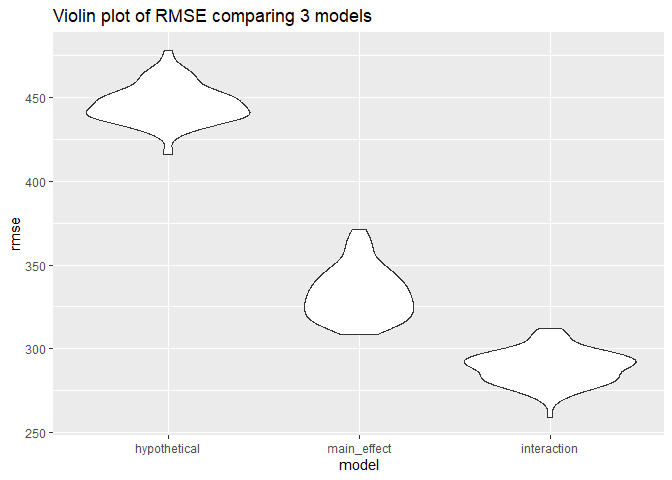
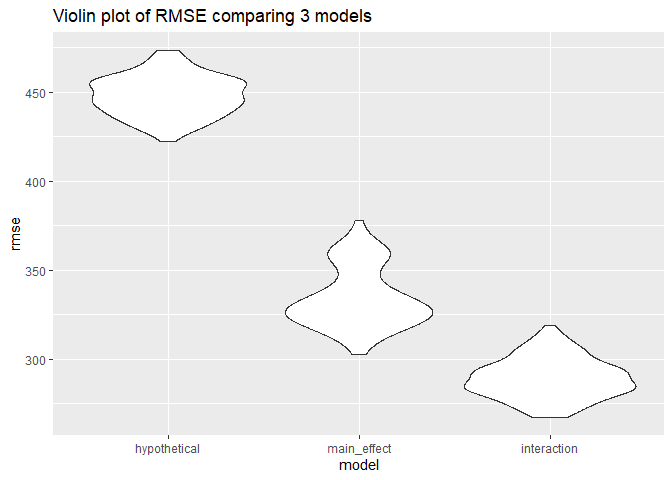
Copied and pasted Problem 1 solution. Added description for Problem 2.

diff --git a/HW6.md b/HW6.md
@@ -24,6 +24,79 @@ Chee Kay Cheong
     ## 
     ## This is mgcv 1.8-40. For overview type 'help("mgcv-package")'.
 
+## Problem 1
+
+To obtain a distribution for $\hat{r}^2$, we’ll follow basically the
+same procedure we used for regression coefficients: draw bootstrap
+samples; then a model to each; extract the value I’m concerned with; and
+summarize. Here, we’ll use `modelr::bootstrap` to draw the samples and
+`broom::glance` to produce `r.squared` values.
+
+``` r
+weather_df = 
+  rnoaa::meteo_pull_monitors(
+    c("USW00094728"),
+    var = c("PRCP", "TMIN", "TMAX"), 
+    date_min = "2017-01-01",
+    date_max = "2017-12-31") %>%
+  mutate(
+    name = recode(id, USW00094728 = "CentralPark_NY"),
+    tmin = tmin / 10,
+    tmax = tmax / 10) %>%
+  select(name, id, everything())
+```
+
+``` r
+weather_df %>% 
+  modelr::bootstrap(n = 1000) %>% 
+  mutate(
+    models = map(strap, ~lm(tmax ~ tmin, data = .x) ),
+    results = map(models, broom::glance)) %>% 
+  select(-strap, -models) %>% 
+  unnest(results) %>% 
+  ggplot(aes(x = r.squared)) + geom_density()
+```
+
+![](HW6_files/figure-gfm/unnamed-chunk-1-1.png)<!-- -->
+
+In this example, the $\hat{r}^2$ value is high, and the upper bound at 1
+may be a cause for the generally skewed shape of the distribution. If we
+wanted to construct a confidence interval for $R^2$, we could take the
+2.5% and 97.5% quantiles of the estimates across bootstrap samples.
+However, because the shape isn’t symmetric, using the mean +/- 1.96
+times the standard error probably wouldn’t work well.
+
+We can produce a distribution for $\log(\beta_0 * \beta1)$ using a
+similar approach, with a bit more wrangling before we make our plot.
+
+``` r
+weather_df %>% 
+  modelr::bootstrap(n = 1000) %>% 
+  mutate(
+    models = map(strap, ~lm(tmax ~ tmin, data = .x) ),
+    results = map(models, broom::tidy)) %>% 
+  select(-strap, -models) %>% 
+  unnest(results) %>% 
+  select(id = `.id`, term, estimate) %>% 
+  pivot_wider(
+    names_from = term, 
+    values_from = estimate) %>% 
+  rename(beta0 = `(Intercept)`, beta1 = tmin) %>% 
+  mutate(log_b0b1 = log(beta0 * beta1)) %>% 
+  ggplot(aes(x = log_b0b1)) + geom_density()
+```
+
+![](HW6_files/figure-gfm/unnamed-chunk-2-1.png)<!-- -->
+
+As with $r^2$, this distribution is somewhat skewed and has some
+outliers.
+
+The point of this is not to say you should always use the bootstrap –
+it’s possible to establish “large sample” distributions for strange
+parameters / values / summaries in a lot of cases, and those are great
+to have. But it is helpful to know that there’s a way to do inference
+even in tough cases.
+
 ## Problem 2
 
 Load and clean the `homicide` dataset:
@@ -33,19 +106,30 @@ homicide =
   read_csv("./Data/homicide_data.csv") %>% 
   janitor::clean_names() %>% 
   mutate(
+  # I didn't drop any missing values, but I converted all "Unknown" in these three columns to real 'NA' that is recognized by R.
     across(c(victim_age, victim_sex, victim_race), na_if, "Unknown")) %>% 
   mutate(
     victim_age = as.numeric(victim_age),
     reported_date = as.character(reported_date),
     reported_date = as.Date(reported_date, format = "%Y%m%d"),
     state = str_replace(state, "w", "W"),
-    case_solved = ifelse(disposition == "Closed by arrest", 1, 0)) %>%
+    case_solved = ifelse(disposition == "Closed by arrest", 1, 0),
+    case_solved = as.factor(case_solved)) %>%
   unite(col = 'city_state', c('city', 'state'), sep = ', ') %>% 
   subset(!city_state %in% c("Dallas, TX", "Phoenix, AZ", "Kansas City, MO", "Tulsa, AL")) %>% 
   subset(victim_race %in% c("White", "Black"))
 ```
 
+I created a new variable named `case_solved` in which if any cases were
+“*Open/No arrest*” or “*closed without arrest*” it will be coded as `0`,
+while if any cases were “*Closed by arrest*” it will be coded as `1`.
+
+`1` means resolved, whereas `0` means unresolved.
+
 ##### Baltimore, MD
+
+I would like to create a smaller dataset named `baltimore` which
+contains only information about the city of Baltimore, MD.
 
 ``` r
 baltimore = 
@@ -53,9 +137,14 @@ baltimore =
   filter(
     city_state == "Baltimore, MD") %>%
   mutate(
+  # I releveled the victim's race, so that "White" becomes the reference group.
     victim_race = fct_relevel(victim_race, "White")) %>% 
   select(case_solved, victim_age, victim_sex, victim_race)
 ```
+
+Then, I would fit a logistic regression to obtain the adjusted odds
+ratio for solving homicides comparing male victims to female victims,
+keeping all other variables fixed.
 
 ``` r
 logreg_balti = 
@@ -68,18 +157,26 @@ logreg_balti =
     CI_upper = exp(estimate + 1.96 * std.error))
 
 logreg_balti %>% 
-  select(-std.error, -statistic) %>% 
+  select(term, OR, CI_lower, CI_upper) %>% 
+  filter(term == "victim_sexMale") %>% 
   knitr::kable(digits = 2)
 ```
 
-| term             | estimate | p.value |   OR | CI_lower | CI_upper |
-|:-----------------|---------:|--------:|-----:|---------:|---------:|
-| (Intercept)      |     1.15 |    0.00 | 3.16 |     1.99 |     5.03 |
-| victim_age       |    -0.01 |    0.04 | 0.99 |     0.99 |     1.00 |
-| victim_sexMale   |    -0.85 |    0.00 | 0.43 |     0.32 |     0.56 |
-| victim_raceBlack |    -0.84 |    0.00 | 0.43 |     0.31 |     0.61 |
+| term           |   OR | CI_lower | CI_upper |
+|:---------------|-----:|---------:|---------:|
+| victim_sexMale | 0.43 |     0.32 |     0.56 |
+
+The adjusted odds ratio for solving homicides comparing male victims to
+female victims is 0.43, and the adjusted 95% confidence interval is 0.32
+to 0.56. In Baltimore, MD, the odds of solving homicides among males is
+57% lower than the odds of solving homicides among females, and we are
+95% confident that the true odds ratio lies between 0.32 and 0.56.
 
 ##### All cities
+
+Next, I fitted a logistic regression model for each of the cities in the
+`homicide` dataset and extract the adjusted odds ratio and 95% CI for
+solving homicides comparing male victims to female victims.
 
 ``` r
 all_cities = 
@@ -97,7 +194,64 @@ all_cities =
     OR = exp(estimate),
     CI_lower = exp(estimate - 1.96 * std.error),
     CI_upper = exp(estimate + 1.96 * std.error))
+
+all_cities %>% 
+  select(city_state, term, OR, CI_lower, CI_upper) %>% 
+  knitr::kable(digits = 2)
 ```
+
+| city_state         | term           |   OR | CI_lower | CI_upper |
+|:-------------------|:---------------|-----:|---------:|---------:|
+| Albuquerque, NM    | victim_sexMale | 1.77 |     0.83 |     3.76 |
+| Atlanta, GA        | victim_sexMale | 1.00 |     0.68 |     1.46 |
+| Baltimore, MD      | victim_sexMale | 0.43 |     0.32 |     0.56 |
+| Baton Rouge, LA    | victim_sexMale | 0.38 |     0.21 |     0.70 |
+| Birmingham, AL     | victim_sexMale | 0.87 |     0.57 |     1.32 |
+| Boston, MA         | victim_sexMale | 0.67 |     0.35 |     1.26 |
+| Buffalo, NY        | victim_sexMale | 0.52 |     0.29 |     0.94 |
+| Charlotte, NC      | victim_sexMale | 0.88 |     0.56 |     1.40 |
+| Chicago, IL        | victim_sexMale | 0.41 |     0.34 |     0.50 |
+| Cincinnati, OH     | victim_sexMale | 0.40 |     0.24 |     0.68 |
+| Columbus, OH       | victim_sexMale | 0.53 |     0.38 |     0.75 |
+| Denver, CO         | victim_sexMale | 0.48 |     0.24 |     0.97 |
+| Detroit, MI        | victim_sexMale | 0.58 |     0.46 |     0.73 |
+| Durham, NC         | victim_sexMale | 0.81 |     0.39 |     1.68 |
+| Fort Worth, TX     | victim_sexMale | 0.67 |     0.40 |     1.13 |
+| Fresno, CA         | victim_sexMale | 1.34 |     0.58 |     3.07 |
+| Houston, TX        | victim_sexMale | 0.71 |     0.56 |     0.91 |
+| Indianapolis, IN   | victim_sexMale | 0.92 |     0.68 |     1.24 |
+| Jacksonville, FL   | victim_sexMale | 0.72 |     0.54 |     0.97 |
+| Las Vegas, NV      | victim_sexMale | 0.84 |     0.61 |     1.15 |
+| Long Beach, CA     | victim_sexMale | 0.41 |     0.16 |     1.08 |
+| Los Angeles, CA    | victim_sexMale | 0.66 |     0.46 |     0.96 |
+| Louisville, KY     | victim_sexMale | 0.49 |     0.30 |     0.79 |
+| Memphis, TN        | victim_sexMale | 0.72 |     0.53 |     0.99 |
+| Miami, FL          | victim_sexMale | 0.52 |     0.30 |     0.87 |
+| Milwaukee, WI      | victim_sexMale | 0.73 |     0.50 |     1.06 |
+| Minneapolis, MN    | victim_sexMale | 0.95 |     0.48 |     1.87 |
+| Nashville, TN      | victim_sexMale | 1.03 |     0.68 |     1.56 |
+| New Orleans, LA    | victim_sexMale | 0.58 |     0.42 |     0.81 |
+| New York, NY       | victim_sexMale | 0.26 |     0.14 |     0.50 |
+| Oakland, CA        | victim_sexMale | 0.56 |     0.37 |     0.87 |
+| Oklahoma City, OK  | victim_sexMale | 0.97 |     0.62 |     1.52 |
+| Omaha, NE          | victim_sexMale | 0.38 |     0.20 |     0.72 |
+| Philadelphia, PA   | victim_sexMale | 0.50 |     0.38 |     0.65 |
+| Pittsburgh, PA     | victim_sexMale | 0.43 |     0.27 |     0.70 |
+| Richmond, VA       | victim_sexMale | 1.01 |     0.50 |     2.03 |
+| San Antonio, TX    | victim_sexMale | 0.70 |     0.40 |     1.25 |
+| Sacramento, CA     | victim_sexMale | 0.67 |     0.33 |     1.34 |
+| Savannah, GA       | victim_sexMale | 0.87 |     0.42 |     1.78 |
+| San Bernardino, CA | victim_sexMale | 0.50 |     0.17 |     1.46 |
+| San Diego, CA      | victim_sexMale | 0.41 |     0.20 |     0.85 |
+| San Francisco, CA  | victim_sexMale | 0.61 |     0.32 |     1.17 |
+| St. Louis, MO      | victim_sexMale | 0.70 |     0.53 |     0.93 |
+| Stockton, CA       | victim_sexMale | 1.35 |     0.62 |     2.94 |
+| Tampa, FL          | victim_sexMale | 0.81 |     0.35 |     1.88 |
+| Tulsa, OK          | victim_sexMale | 0.98 |     0.61 |     1.55 |
+| Washington, DC     | victim_sexMale | 0.69 |     0.47 |     1.02 |
+
+Then, I created a plot that shows the estimated ORs and CIs for each
+city.
 
 ``` r
 all_cities %>% 
@@ -316,6 +470,6 @@ cv_df %>%
 
 | model        | mean_rmse |
 |:-------------|----------:|
-| hypothetical |    446.15 |
-| interaction  |    289.14 |
-| main_effect  |    333.01 |
+| hypothetical |    448.06 |
+| interaction  |    289.23 |
+| main_effect  |    334.56 |
